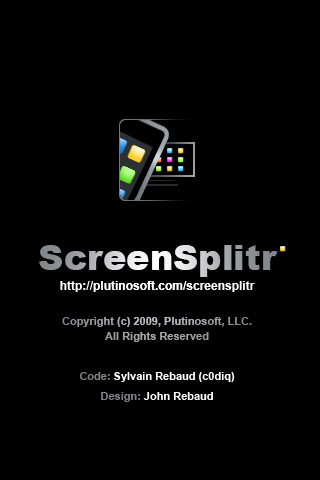
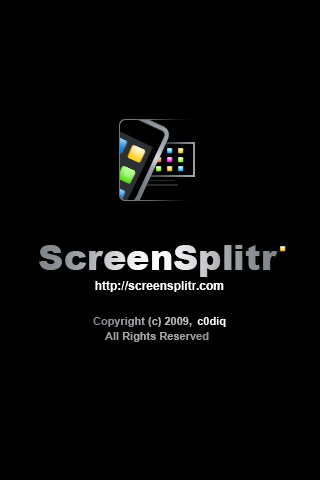
new package way

Changed region(s): [[0.1875, 0.5625, 0.7812, 0.625], [0.25, 0.75, 0.75, 0.8438], [0.1875, 0.6562, 0.7812, 0.6875]]

diff --git a/src/ScreenSplitrApplication.mm b/src/ScreenSplitrApplication.mm
@@ -253,7 +253,7 @@ static void callback(CFNotificationCenterRef center, void *observer, CFStringRef
             
     ScreenSplitrAlertView *view = [[ScreenSplitrAlertView alloc] initWithFrame:CGRectMake(0, 240, 320, 240)];
     [view setTitle:@"Remote View Request"];
-    [view setMessage:[NSString stringWithFormat:@"\nAccept connection from\n%s?\n\nScreenSplitr\nby Sylvain Rebaud (c0diq)\nc0diq@screensplitr.com\nhttp://www.screensplitr.com\n", [ip UTF8String]]];
+    [view setMessage:[NSString stringWithFormat:@"\nAccept connection from\n%s?\n\nScreenSplitr\nby c0diq\nc0diq@screensplitr.com\nhttp://www.screensplitr.com\n", [ip UTF8String]]];
     [view addButtonWithTitle:@"Accept"];
     [view addButtonWithTitle:@"Reject"];
     [view setDelegate: self];
